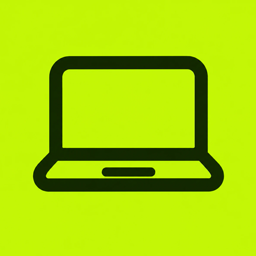
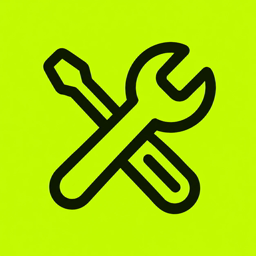
Empieza: íconos corregidos (Plataforma laptop, Chat de rescate salvavidas, Herramientas llave)

Changed region(s): [[0.125, 0.1562, 0.875, 0.8438]]

diff --git a/guia-taller-ia.html b/guia-taller-ia.html
@@ -2063,7 +2063,7 @@ function viewInicio() {
           </div>
         </div>
         <div class="hc-nodo hc-paso"><span class="hc-ico hc-ico-img"><img src="img/ico-asiste.png" alt=""></span><div><b>Asiste al taller</b><small>Conéctate en vivo y participa en las dinámicas desde esta plataforma.</small></div></div>
-        <div class="hc-nodo hc-paso"><span class="hc-ico hc-ico-img"><img src="img/ico-plataforma-robot.png" alt=""></span><div><b>Plataforma</b><small>Aquí encuentras instrucciones, materiales, actividades y tu avance.</small></div></div>
+        <div class="hc-nodo hc-paso"><span class="hc-ico hc-ico-img"><img src="img/ico-plataforma.png" alt=""></span><div><b>Plataforma</b><small>Aquí encuentras instrucciones, materiales, actividades y tu avance.</small></div></div>
         <div class="hc-nodo hc-paso"><span class="hc-ico hc-ico-img"><img src="img/ico-chat.png" alt=""></span><div><b>Chat de rescate</b><small>¿Te atoraste? Pide ayuda desde el botón y el equipo de soporte te atiende sin detener la clase.</small></div></div>
         <div class="hc-nodo hc-paso"><span class="hc-ico hc-ico-img"><img src="img/ico-herramientas.png" alt=""></span><div><b>Herramientas</b><small>Ten abiertas tus cuentas de ChatGPT y Gemini antes de empezar.</small></div></div>
         <div class="hc-nodo"><button type="button" class="hc-robot" onclick="const t=document.getElementById('temario');t.hidden=false;t.scrollIntoView({behavior:'smooth'})" aria-label="Ver el temario completo"><span class="hc-mas">+</span><img src="img/robot-hub-lima.webp" alt="Hub de Jefes"><small>Ver temario completo ↓</small></button></div>
